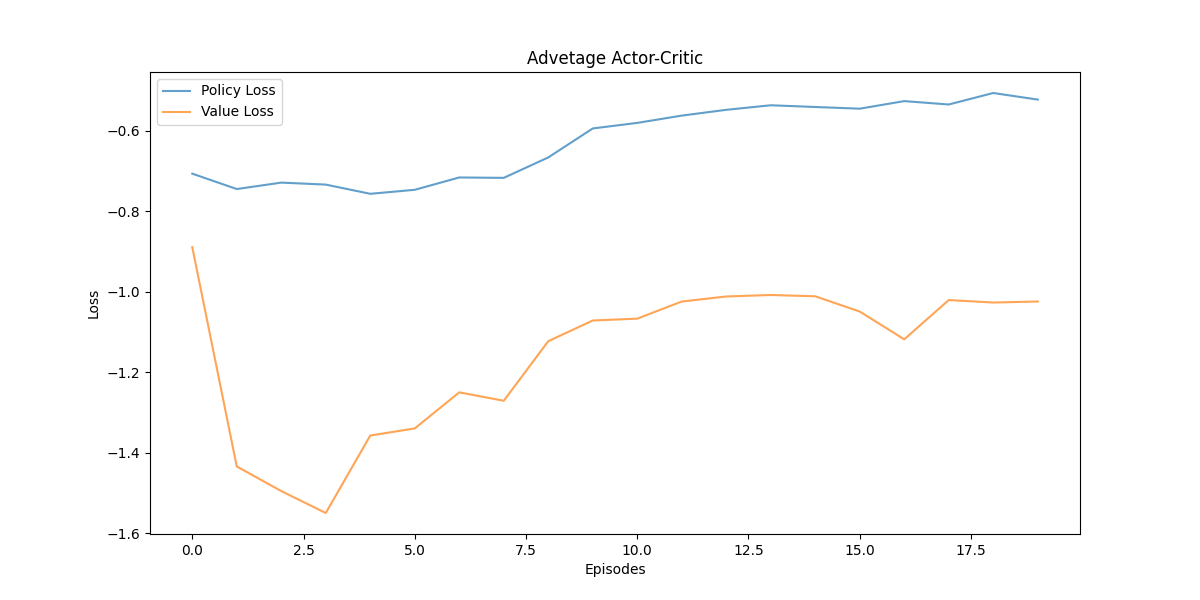
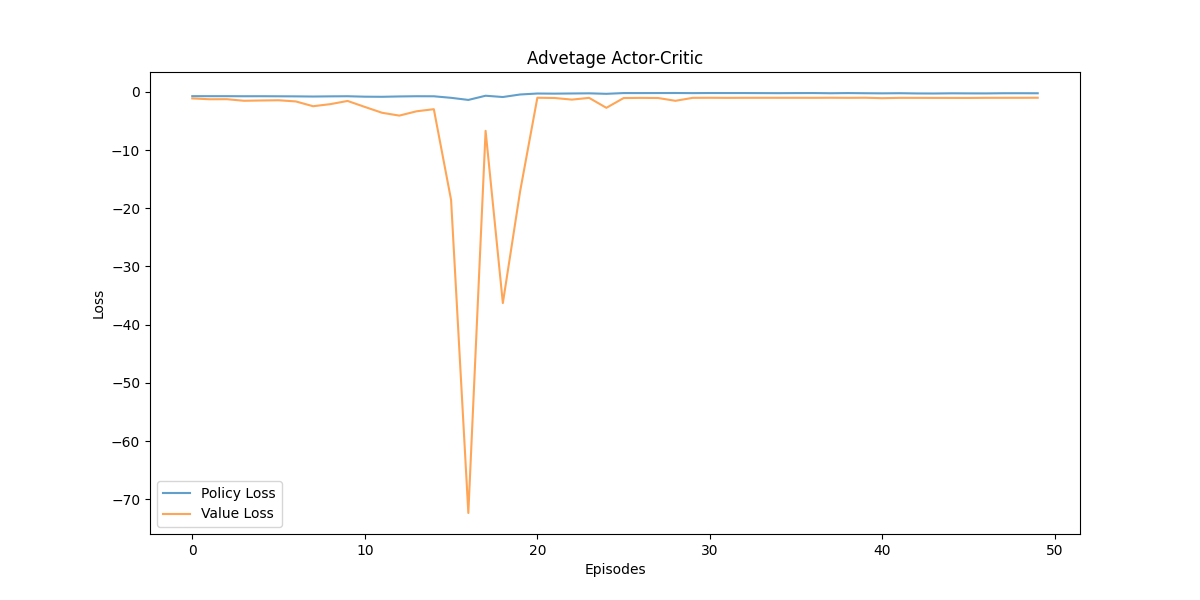
Added more tests

diff --git a/Assginment2/Part2_ActorCritic/ActorCritic.py b/Assginment2/Part2_ActorCritic/ActorCritic.py
@@ -11,9 +11,9 @@ import matplotlib.pyplot as plt
 
 import os
 
-LEARNING_RATE_POLICY = 0.005
-LEARNING_RATE_VALUE = 0.005
-DISCOUNT_FACTOR = 0.995
+LEARNING_RATE_POLICY = 0.0009
+LEARNING_RATE_VALUE = 0.0009
+DISCOUNT_FACTOR = 0.999
 
 # Define the policy network
 class PolicyNet(nn.Module):
@@ -129,12 +129,12 @@ def main():
     env = gym.make('CartPole-v1', render_mode=None)
 
     # Initialize policy network and optimizer
-    policy_net = PolicyNet(4, [64, 64, 32], 2)
+    policy_net = PolicyNet(4, [256, 128, 32], 2)
     optimizer = optim.AdamW(policy_net.parameters(), lr=LEARNING_RATE_POLICY)
     policy_loss_all = []
 
     # Initialize value network and optimizer
-    value_net = ValueNet(4, [64, 64, 32], 1)
+    value_net = ValueNet(4, [256, 128, 32], 1)
     value_optimizer = optim.AdamW(value_net.parameters(), lr=LEARNING_RATE_VALUE)
     value_loss_all = []
     
